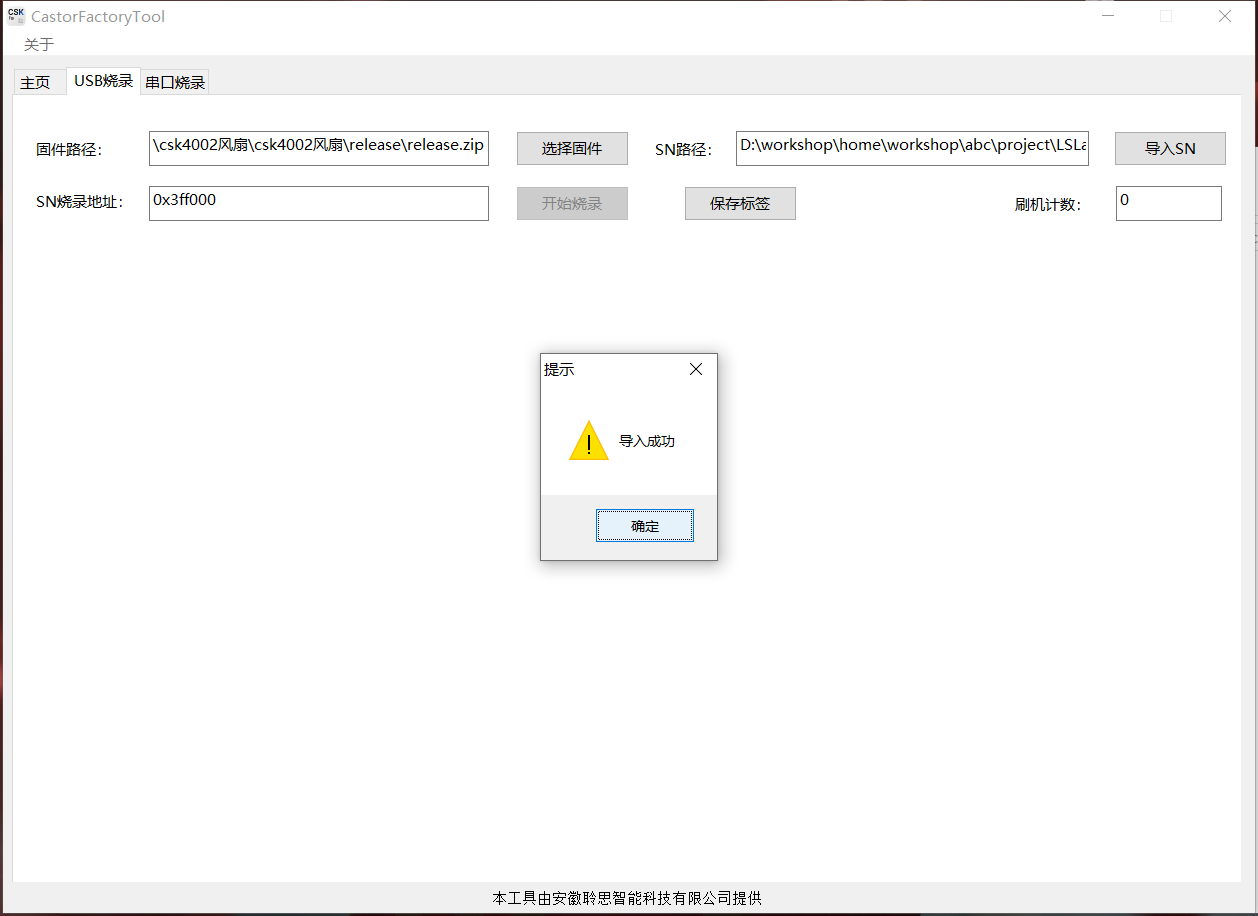
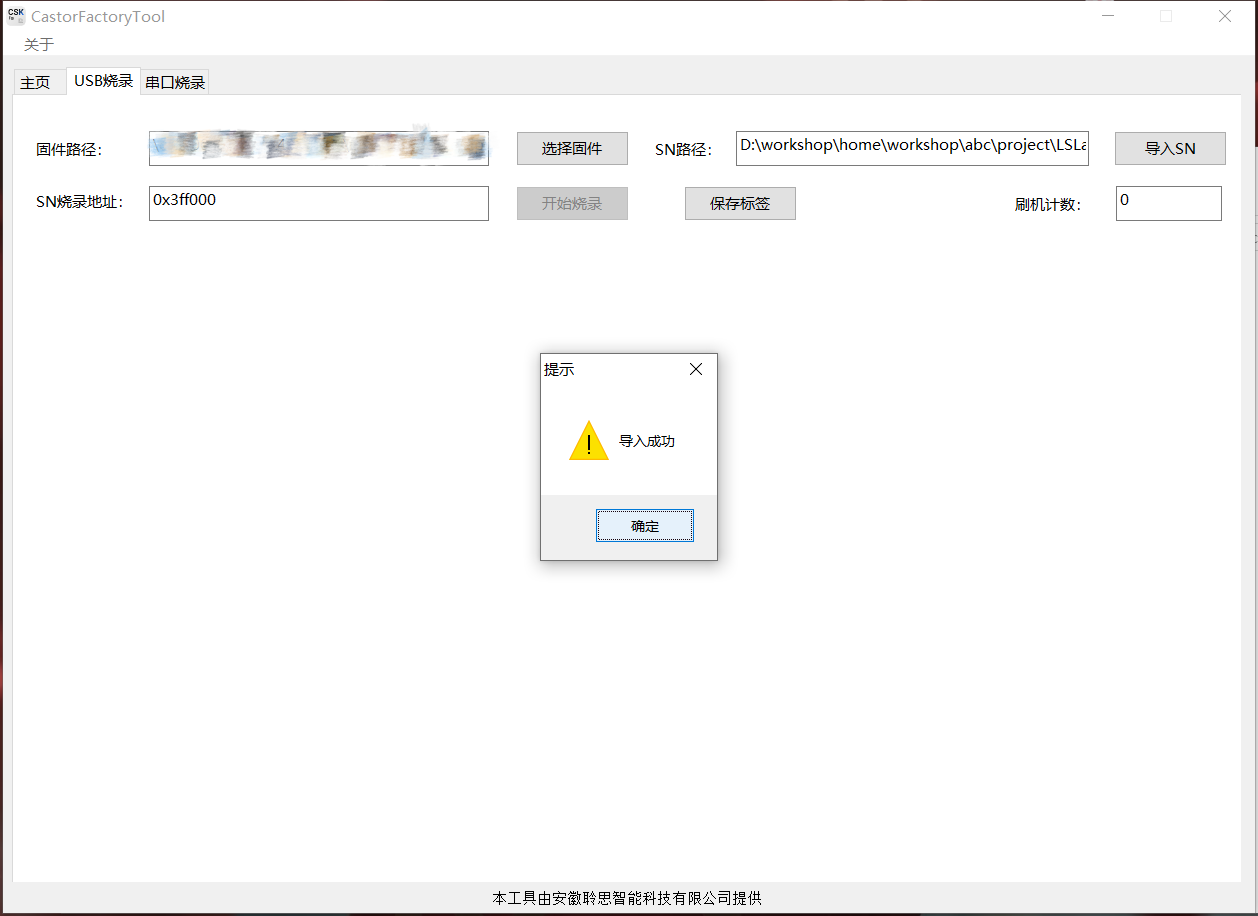
更新 advanced_factory_config 烧录流程_产测包内容&图片展示

Changed region(s): [[0.093, 0.1223, 0.403, 0.1834]]

diff --git a/docs/guides/advanced/factory_config.md b/docs/guides/advanced/factory_config.md
@@ -204,8 +204,13 @@ check_gpios_delay = 2
 
 ### 3.1 获取量产包
 
-用户可从LStudio工程根目录`release`目录获取到量产烧录包`release.zip`
+用户可从LStudio工程根目录`release`目录获取到量产包`release.zip`
 ![](./files/factory_config/1614685884552.png)
+
+将`release.zip`解压，解压后的目录中找到量产固件包，量产固件包的命名规则为`项目名-版本号-factory.csk`
+
+![](./files/factory_config/1614763016767.png)
+
 
 ### 3.2 打开量产烧录工具
 
@@ -222,7 +227,7 @@ check_gpios_delay = 2
 
 ### 3.5 选择并导入量产固件包
 
-![](./files/factory_config/1614686548000.png)
+![](./files/factory_config/1614762594992.png)
 
 ### 3.6 准备SN序列号文件
 
